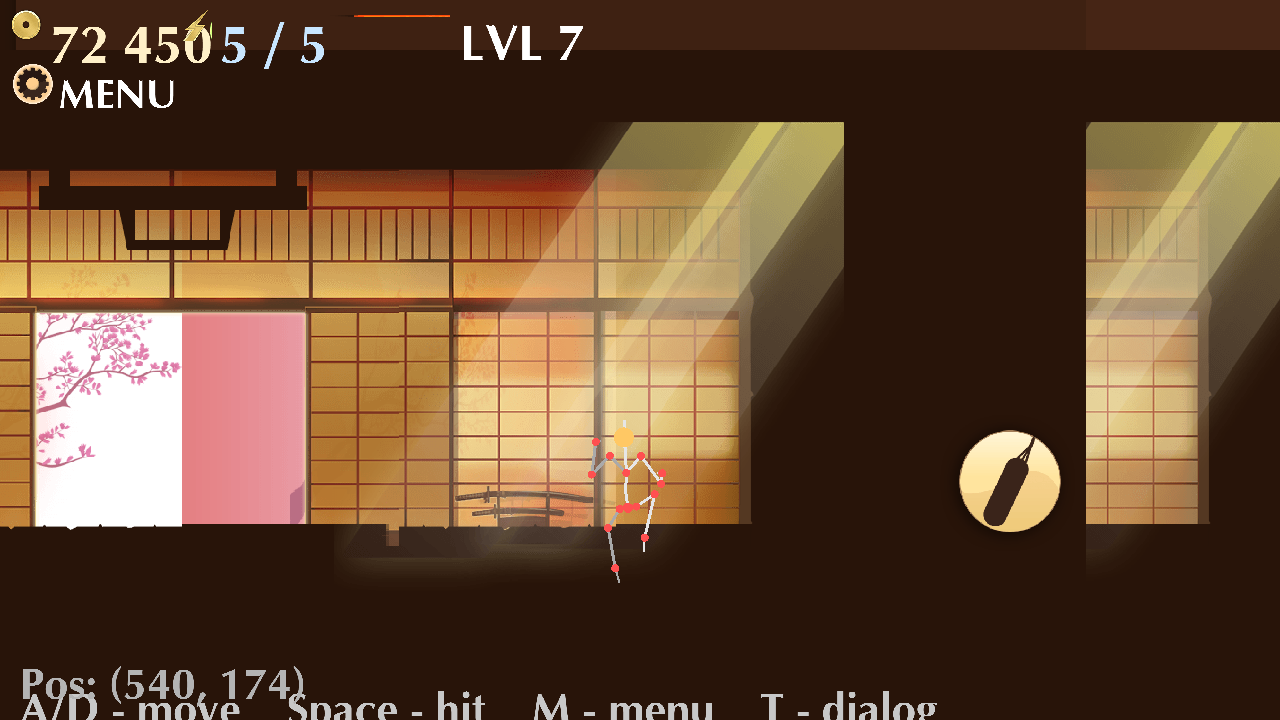
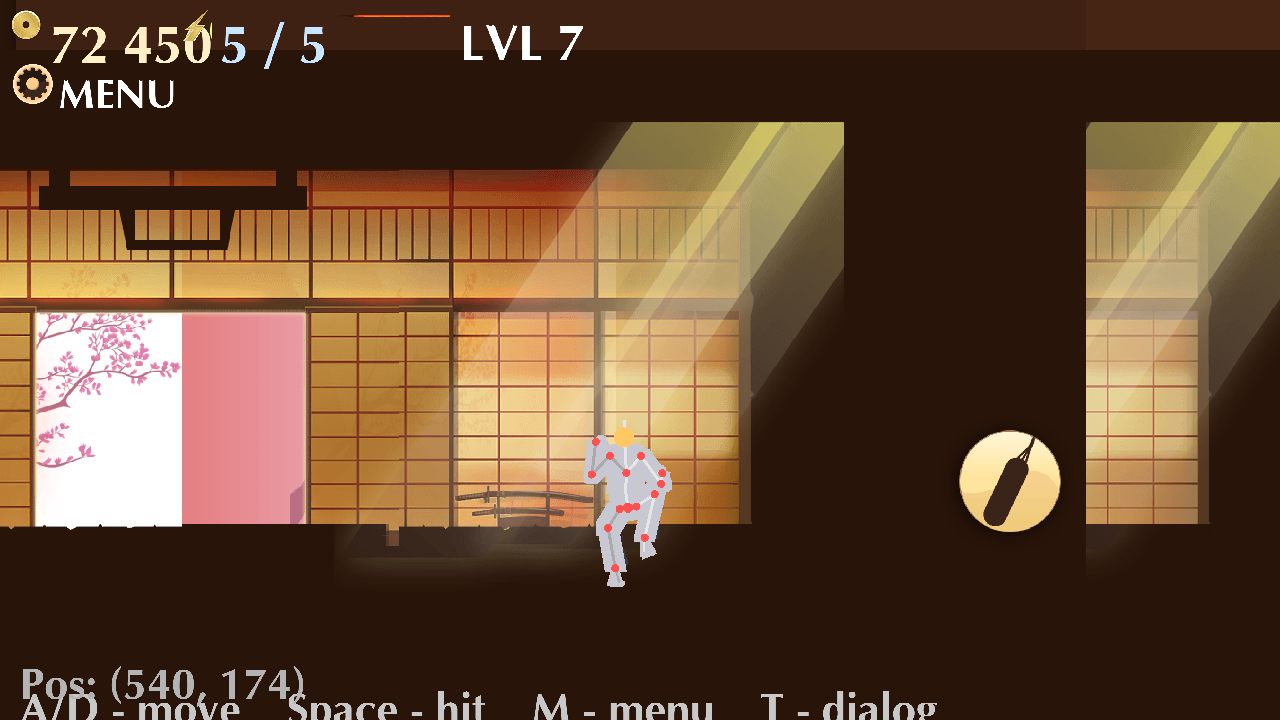
d1a35228-9460-46bf-8ef0-459de2e9f0b9

Changed region(s): [[0.4375, 0.6111, 0.5312, 0.825]]

diff --git a/worklog.md b/worklog.md
@@ -225,3 +225,46 @@ Stage Summary:
   skeleton_punching_bag.xml + body.xml + all other model XMLs from
   files.dz. This will allow rendering the real 3D punching bag model
   and real character body parts.
+
+---
+Task ID: stage-7.5
+Agent: main
+Task: Stage 7.5 — Fix Windows build, render body.xml mesh, load skeleton edges
+
+Work Log:
+- Fixed Windows build errors:
+  - std::min ambiguity (MSVC strict): use std::min<uint32_t> for mixed
+    uint32_t/int arguments in hit_anim/bag_swing decay.
+  - LNK4006 duplicate stbi symbols: extracted STB_IMAGE_IMPLEMENTATION
+    and STB_IMAGE_WRITE_IMPLEMENTATION into a single compilation unit
+    (stb_image_impl.cpp) instead of defining them in both renderer.cpp
+    and software_renderer.cpp.
+  - Fixed int->float conversion warnings (C4244).
+  - Fixed [[nodiscard]] warning (C4834): check make_gl_current() return.
+- User provided body.xml and punching_bag.xml (extracted from files.dz
+  on Windows). These are the real fighter body mesh + punching bag model.
+- Implemented body.xml mesh rendering:
+  - Parses <Nodes> (BODY-NodeN, BODY-MacroNodeN), <Edges> (BODY-EdgeN),
+    <Figures> (Capsules with Edge/Radius1/Radius2, Triangles with
+    Node1/Node2/Node3).
+  - Renders capsules as thick lines (light gray, radius from XML).
+  - Renders triangles as filled polygons (dark gray, rasterized with
+    barycentric interpolation).
+  - Resolves MacroNodes recursively as weighted averages of child nodes
+    (using LCC1..LCC4 coefficients).
+- Fixed skeleton.xml edge parsing to also load Type="Muscle" entries
+  (Muscle115..120) which are referenced by body.xml capsules.
+  Now loads 193 edges (111 Edge + 82 Muscle).
+- The dzip repo (https://github.com/kugelrund/dzip) is for Quake demo
+  files, NOT for Marmalade's DTRZ format. Not usable. User must extract
+  files.dz on Windows using dzip.exe + extract_dz.bat.
+
+Stage Summary:
+- Windows build now compiles successfully (all 3 fixes applied).
+- Body mesh from body.xml renders: 15 nodes, 36 edges, 82 capsules,
+  29 triangles. Character now has a filled body shape (not just stick
+  figure) with thick capsule limbs and filled triangle torso.
+- Skeleton edges loaded: 193 entries (Edge + Muscle types).
+- VLM-verified: character has "filled torso area with thickness".
+- Next: need skeleton_punching_bag.xml to render the real punching bag
+  3D model (currently using btn_punching_bag.png icon as placeholder).
